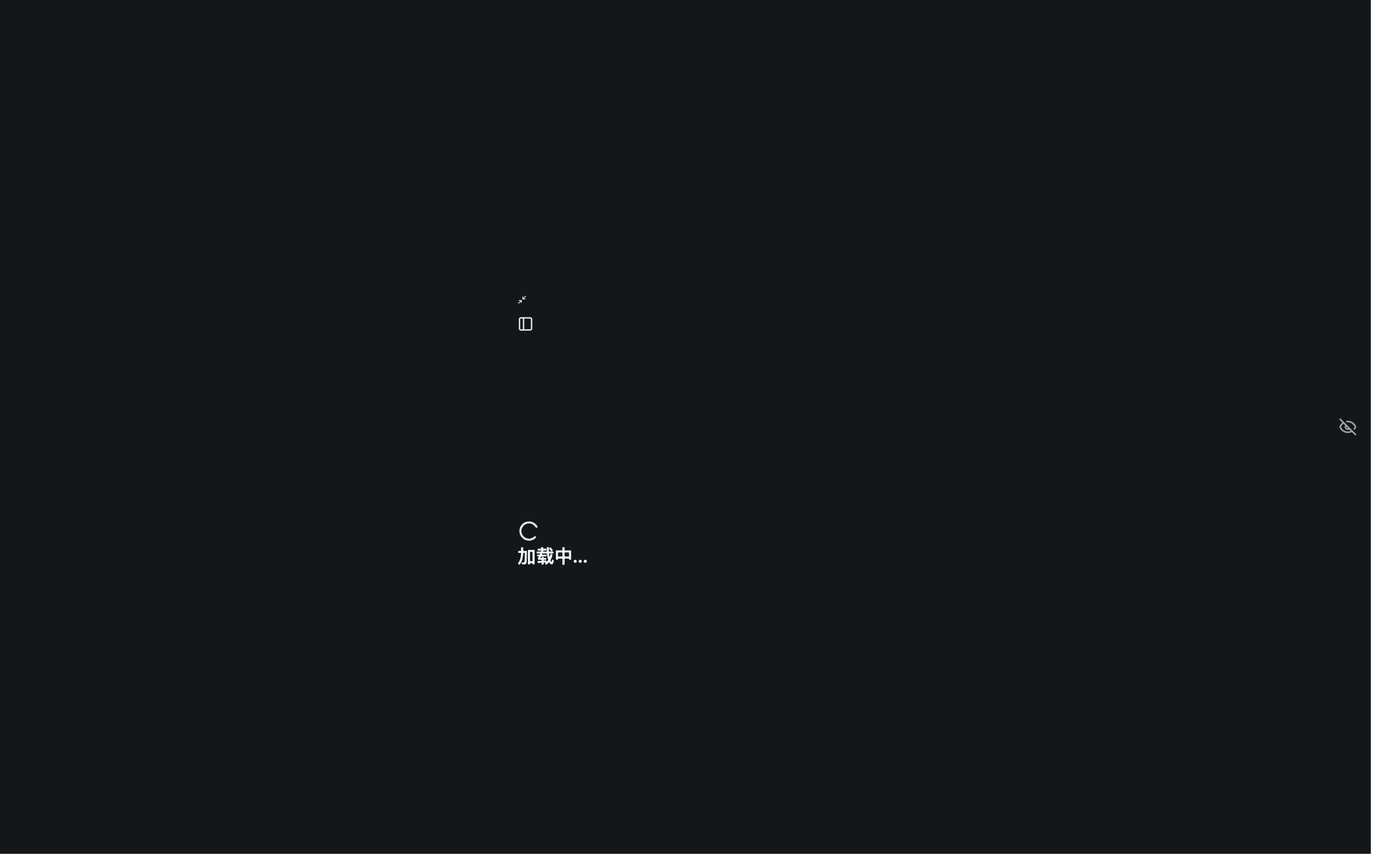
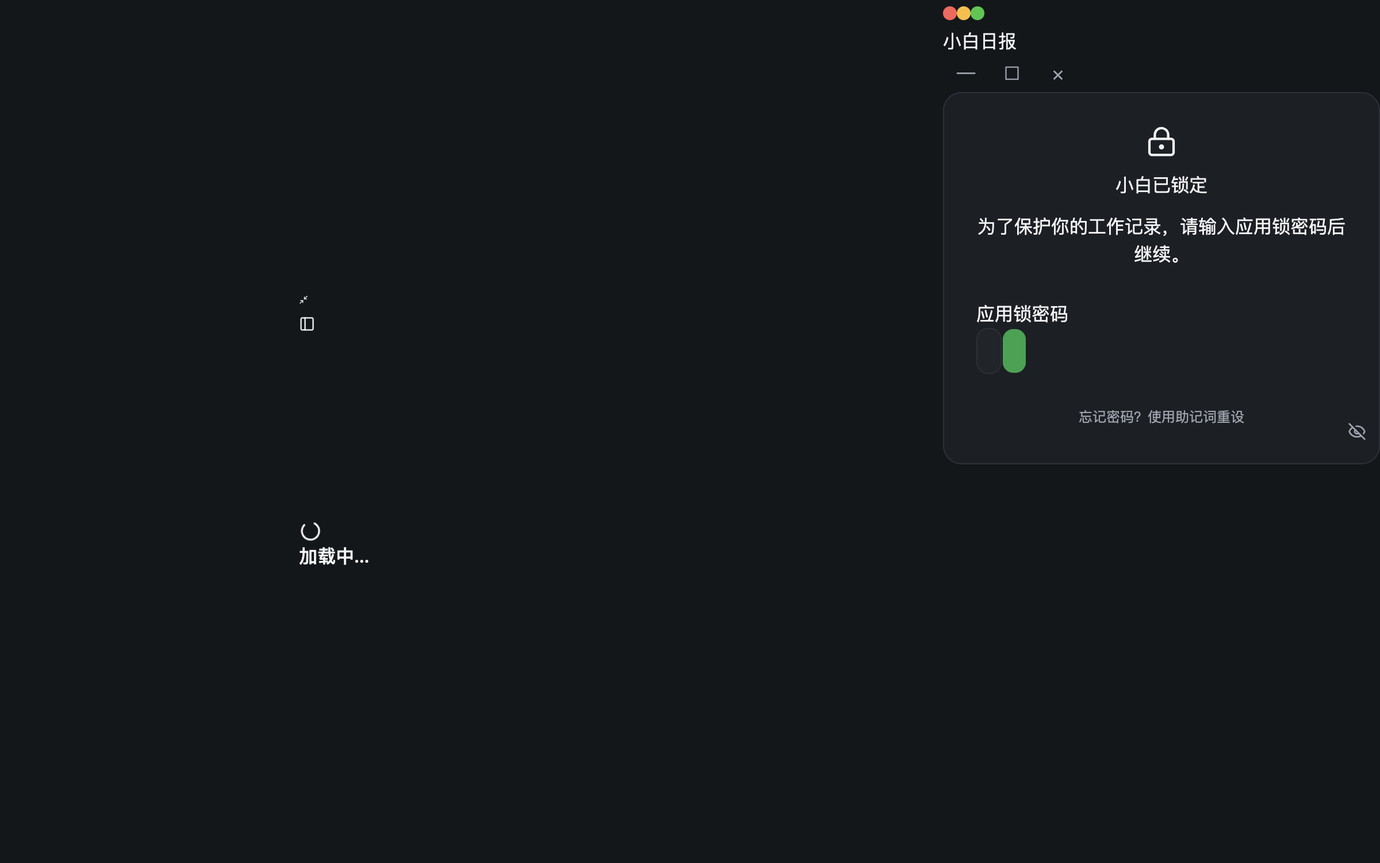
模板辅助函数：:style 外层调用解包（37 个组件），批量挂载不变
接上一轮的结论 —— 全量还原的两个障碍之一，是模板里的 :style="at({...})"：
at 本该是 normalizeStyle 一类编译期辅助函数，但 shared 里同名的是 vue-i18n 的
调度器 nr，调用即抛 at is not a function，style 整块丢失。

这类符号不能靠名字对齐。改成把外层调用去掉：normalizeStyle 对纯对象/数组就是
原样返回，:style="at({...})" 与 :style="{...}" 等价。

实测：
- 37 个组件命中
- 批量挂载 ok 仍为 112，无回归
- 真外壳 + 真 preload 下（RESTORE_SETUP_HOOKS=1 产物）：
  #app 8247B、i18n 已装上（__VUE_I18N_SYMBOL__ 为真，文案是真实翻译）、
  --sidebar-expanded-w: 220px、应用锁面板完整渲染

顺便把首屏布局的三种宿主写法结论记进文档（12px / 820px / 1192px 的取舍），
精确对齐属于外壳适配，不改还原产物。

diff --git a/vue/components/TodoGanttView.vue b/vue/components/TodoGanttView.vue
@@ -1,5 +1,5 @@
 <template>
-<div data-v-8f46fbd1 ref="f" :class="`todo-gantt relative flex h-full min-h-0 flex-1 flex-col overflow-hidden rounded-lg border border-[#e5e7eb] bg-white`" :data-drag-mode="Be"><div :class="`flex h-11 shrink-0 items-center justify-between gap-3 border-b border-[#e5e7eb] px-3`" @click="withDirectives(()=>{},[`stop`])"><div><span>{{ i(`todo.view.ganttTask`) }}</span><span><span v-text="i(`todo.loadedCount`,{count:M.value.length})" /></span></div><div><div><span><span :class="[`size-2 rounded-full border-2`,Se(`created`)]"></span>{{ ` `+toDisplayString(i(`todo.gantt.created`)) }}</span><span>{{ ` `+toDisplayString(i(`todo.gantt.legendRescheduled`)) }}</span><span>{{ ` `+toDisplayString(i(`todo.gantt.legendActual`)) }}</span><span><span><component :is="ts" :size="8" :stroke-width="2.4" /></span>{{ ` `+toDisplayString(i(`todo.gantt.legendComments`)) }}</span><span><span><component :is="an" :size="8" :stroke-width="3.5" /></span>{{ ` `+toDisplayString(i(`todo.gantt.completed`)) }}</span></div><button type="button" :class="[`inline-flex h-7 items-center rounded-md border px-2 text-xs font-medium transition-colors`,u?.value?`border-[#bbf7d0] bg-[#f0fdf4] text-[#16a34a] hover:bg-[#dcfce7]`:`border-[#e5e7eb] bg-white text-[#4b5563] hover:bg-[#f9fafb]`]" :aria-pressed="u?.value" :title="i(`todo.gantt.timePointsHint`)" @click="e=>u.value=!u?.value">{{ i(`todo.view.ganttLegend`) }}</button><div :class="`inline-flex h-7 items-center rounded-md border border-[#e5e7eb] bg-[#f9fafb] p-0.5`" role="radiogroup" :aria-label="i(`todo.gantt.zoom`)"></div><div><button type="button" :class="`flex h-full w-7 items-center justify-center text-[#6b7280] transition-colors hover:bg-[#f9fafb] hover:text-[#111827]`" :aria-label="i(`todo.gantt.prev`)" :title="i(`todo.gantt.prev`)" @click="e=>Ue(-1)"><component :is="Qt" :size="14" :stroke-width="2" /></button><button type="button" :class="`h-full border-x border-[#e5e7eb] px-2.5 text-xs font-medium text-[#4b5563] transition-colors hover:bg-[#f9fafb] hover:text-[#111827]`" @click="He">{{ i(`todo.gantt.today`) }}</button><button type="button" :class="`flex h-full w-7 items-center justify-center text-[#6b7280] transition-colors hover:bg-[#f9fafb] hover:text-[#111827]`" :aria-label="i(`todo.gantt.next`)" :title="i(`todo.gantt.next`)" @click="e=>Ue(1)"><component :is="dn" :size="14" :stroke-width="2" /></button></div></div></div><div ref="p" :class="[`todo-gantt-scroll min-h-0 flex-1 overflow-auto`,{'is-panning':v}]" @scroll="Ke"><div :style="at({width:`${ie?.value}px`})"><div :class="`sticky top-0 z-40 flex border-b border-[#e5e7eb] bg-white`" :style="at({height:`${yfe}px`})"><div :class="`sticky left-0 z-10 flex shrink-0 items-center border-r border-[#e5e7eb] bg-white px-3 text-xs font-semibold text-[#111827]`" :style="at({width:`${qv}px`})">{{ je?.value }}</div><div :class="`relative shrink-0`" :style="at({width:`${re?.value}px`})" @wheel="qe"><span :class="`pointer-events-none absolute inset-y-0 z-10 w-px bg-[#16a34a]`" :style="at({left:`${ae?.value}px`})"></span></div></div><div><div :class="`pointer-events-none absolute inset-y-0`" :style="at({left:`${qv}px`,width:`${re?.value}px`})" aria-hidden="true"><span :class="`absolute inset-y-0 z-[6] w-px bg-[#16a34a]/80`" :style="at({left:`${ae?.value}px`})"></span></div></div><div :class="`sticky left-0 flex h-14 items-center justify-center text-xs text-[#9ca3af]`" :style="at({width:`${counter}px`})"><button type="button" :class="`inline-flex h-8 items-center justify-center rounded-lg border border-[#e5e7eb] bg-white px-4 font-medium text-[#4b5563] transition-colors hover:border-[#bbf7d0] hover:bg-[#f0fdf4] hover:text-[#16a34a] disabled:cursor-not-allowed disabled:opacity-60`" :disabled="event.loadingMore" @click="withDirectives(e=>r(`loadMore`),[`stop`])">{{ event.loadingMore?i(`todo.loadingMore`):i(`todo.loadMore`) }}</button></div></div></div><div ref="m" :class="[`pointer-events-none absolute z-50 w-[264px] rounded-lg border border-[#e5e7eb] bg-white p-3 text-xs shadow-[0_10px_28px_rgba(15,23,42,0.12)]`,x?`opacity-100`:`opacity-0`]" :style="at(ze)" role="tooltip"><div>{{ Ne.value.title }}</div><div><span :class="[`size-1.5 shrink-0 rounded-full`,xe(Ne.value.status)]"></span><span>{{ ye(Ne.value.status) }}</span><span>{{ Ne.value.progress }}</span></div><div><component :is="Ys" :size="13" :stroke-width="2.2" :class="`mt-0.5 shrink-0`" /><span>{{ i(`todo.gantt.invalidRangeHint`) }}</span></div><dl></dl><div><div>{{ i(`todo.gantt.recentActivity`) }}</div></div><div>{{ Ne.value.overdue }}</div><div>{{ i(`todo.gantt.dragHint`) }}</div></div></div>
+<div data-v-8f46fbd1 ref="f" :class="`todo-gantt relative flex h-full min-h-0 flex-1 flex-col overflow-hidden rounded-lg border border-[#e5e7eb] bg-white`" :data-drag-mode="Be"><div :class="`flex h-11 shrink-0 items-center justify-between gap-3 border-b border-[#e5e7eb] px-3`" @click="withDirectives(()=>{},[`stop`])"><div><span>{{ i(`todo.view.ganttTask`) }}</span><span><span v-text="i(`todo.loadedCount`,{count:M.value.length})" /></span></div><div><div><span><span :class="[`size-2 rounded-full border-2`,Se(`created`)]"></span>{{ ` `+toDisplayString(i(`todo.gantt.created`)) }}</span><span>{{ ` `+toDisplayString(i(`todo.gantt.legendRescheduled`)) }}</span><span>{{ ` `+toDisplayString(i(`todo.gantt.legendActual`)) }}</span><span><span><component :is="ts" :size="8" :stroke-width="2.4" /></span>{{ ` `+toDisplayString(i(`todo.gantt.legendComments`)) }}</span><span><span><component :is="an" :size="8" :stroke-width="3.5" /></span>{{ ` `+toDisplayString(i(`todo.gantt.completed`)) }}</span></div><button type="button" :class="[`inline-flex h-7 items-center rounded-md border px-2 text-xs font-medium transition-colors`,u?.value?`border-[#bbf7d0] bg-[#f0fdf4] text-[#16a34a] hover:bg-[#dcfce7]`:`border-[#e5e7eb] bg-white text-[#4b5563] hover:bg-[#f9fafb]`]" :aria-pressed="u?.value" :title="i(`todo.gantt.timePointsHint`)" @click="e=>u.value=!u?.value">{{ i(`todo.view.ganttLegend`) }}</button><div :class="`inline-flex h-7 items-center rounded-md border border-[#e5e7eb] bg-[#f9fafb] p-0.5`" role="radiogroup" :aria-label="i(`todo.gantt.zoom`)"></div><div><button type="button" :class="`flex h-full w-7 items-center justify-center text-[#6b7280] transition-colors hover:bg-[#f9fafb] hover:text-[#111827]`" :aria-label="i(`todo.gantt.prev`)" :title="i(`todo.gantt.prev`)" @click="e=>Ue(-1)"><component :is="Qt" :size="14" :stroke-width="2" /></button><button type="button" :class="`h-full border-x border-[#e5e7eb] px-2.5 text-xs font-medium text-[#4b5563] transition-colors hover:bg-[#f9fafb] hover:text-[#111827]`" @click="He">{{ i(`todo.gantt.today`) }}</button><button type="button" :class="`flex h-full w-7 items-center justify-center text-[#6b7280] transition-colors hover:bg-[#f9fafb] hover:text-[#111827]`" :aria-label="i(`todo.gantt.next`)" :title="i(`todo.gantt.next`)" @click="e=>Ue(1)"><component :is="dn" :size="14" :stroke-width="2" /></button></div></div></div><div ref="p" :class="[`todo-gantt-scroll min-h-0 flex-1 overflow-auto`,{'is-panning':v}]" @scroll="Ke"><div :style="{width:`${ie?.value}px`}"><div :class="`sticky top-0 z-40 flex border-b border-[#e5e7eb] bg-white`" :style="{height:`${yfe}px`}"><div :class="`sticky left-0 z-10 flex shrink-0 items-center border-r border-[#e5e7eb] bg-white px-3 text-xs font-semibold text-[#111827]`" :style="{width:`${qv}px`}">{{ je?.value }}</div><div :class="`relative shrink-0`" :style="{width:`${re?.value}px`}" @wheel="qe"><span :class="`pointer-events-none absolute inset-y-0 z-10 w-px bg-[#16a34a]`" :style="{left:`${ae?.value}px`}"></span></div></div><div><div :class="`pointer-events-none absolute inset-y-0`" :style="{left:`${qv}px`,width:`${re?.value}px`}" aria-hidden="true"><span :class="`absolute inset-y-0 z-[6] w-px bg-[#16a34a]/80`" :style="{left:`${ae?.value}px`}"></span></div></div><div :class="`sticky left-0 flex h-14 items-center justify-center text-xs text-[#9ca3af]`" :style="{width:`${counter}px`}"><button type="button" :class="`inline-flex h-8 items-center justify-center rounded-lg border border-[#e5e7eb] bg-white px-4 font-medium text-[#4b5563] transition-colors hover:border-[#bbf7d0] hover:bg-[#f0fdf4] hover:text-[#16a34a] disabled:cursor-not-allowed disabled:opacity-60`" :disabled="event.loadingMore" @click="withDirectives(e=>r(`loadMore`),[`stop`])">{{ event.loadingMore?i(`todo.loadingMore`):i(`todo.loadMore`) }}</button></div></div></div><div ref="m" :class="[`pointer-events-none absolute z-50 w-[264px] rounded-lg border border-[#e5e7eb] bg-white p-3 text-xs shadow-[0_10px_28px_rgba(15,23,42,0.12)]`,x?`opacity-100`:`opacity-0`]" :style="ze" role="tooltip"><div>{{ Ne.value.title }}</div><div><span :class="[`size-1.5 shrink-0 rounded-full`,xe(Ne.value.status)]"></span><span>{{ ye(Ne.value.status) }}</span><span>{{ Ne.value.progress }}</span></div><div><component :is="Ys" :size="13" :stroke-width="2.2" :class="`mt-0.5 shrink-0`" /><span>{{ i(`todo.gantt.invalidRangeHint`) }}</span></div><dl></dl><div><div>{{ i(`todo.gantt.recentActivity`) }}</div></div><div>{{ Ne.value.overdue }}</div><div>{{ i(`todo.gantt.dragHint`) }}</div></div></div>
 </template>
 
 <script setup>

diff --git a/vue/components/TodoCalendarView.vue b/vue/components/TodoCalendarView.vue
@@ -1,5 +1,5 @@
 <template>
-<div ref="y" :class="`todo-calendar relative flex h-full min-h-0 flex-1 flex-col overflow-hidden rounded-lg border border-[#e5e7eb] bg-white`"><div :class="`flex h-11 shrink-0 items-center justify-between gap-3 border-b border-[#e5e7eb] px-3`" @click="withDirectives(()=>{},[`stop`])"><div><span>{{ f?.value }}</span><component :is="zn" :size="14" :class="`shrink-0 animate-spin text-[#9ca3af] motion-reduce:animate-none`" aria-hidden="true" /><span :class="`truncate text-xs text-[#ef4444]`" :title="event.error">{{ event.error }}</span></div><div><span>{{ r(`todo.calendar.createHint`) }}</span><div><button type="button" :class="`flex h-full w-7 items-center justify-center text-[#6b7280] transition-colors hover:bg-[#f9fafb] hover:text-[#111827]`" :aria-label="r(`todo.gantt.prev`)" :title="r(`todo.gantt.prev`)" @click="e=>m(-1)"><component :is="Qt" :size="14" :stroke-width="2" /></button><button type="button" :class="[`h-full border-x border-[#e5e7eb] px-2.5 text-xs font-medium transition-colors hover:bg-[#f9fafb] hover:text-[#111827]`,p?.value?`text-[#9ca3af]`:`text-[#4b5563]`]" @click="h">{{ r(`todo.gantt.today`) }}</button><button type="button" :class="`flex h-full w-7 items-center justify-center text-[#6b7280] transition-colors hover:bg-[#f9fafb] hover:text-[#111827]`" :aria-label="r(`todo.gantt.next`)" :title="r(`todo.gantt.next`)" @click="e=>m(1)"><component :is="dn" :size="14" :stroke-width="2" /></button></div><div :class="`inline-flex h-7 items-center rounded-md border border-[#e5e7eb] bg-[#f9fafb] p-0.5`" role="radiogroup" :aria-label="r(`todo.calendar.modeLabel`)"></div></div></div><component :is="cpe" :tasks="event.tasks" :start-day="l.value.startDay" :anchor-day="c?.value" :today-day="s?.value" :now="o?.value" :selected-task-id="event.selectedTaskId" :can-manage="event.canManage" @select="e=>n(`select`,e)" @reschedule="e=>n(`reschedule`,e)" @create="e=>n(`create`,e)" @openweek="_" @contextmenu="x" /><div data-calendar-context-menu="" role="menu" :class="`absolute z-50 flex flex-col rounded-lg border border-[#e5e7eb] bg-white p-1 shadow-[0_10px_28px_rgba(15,23,42,0.14)]`" :style="at({left:`${b.left}px`,top:`${b.top}px`,width:`${dy}px`})" @click="withDirectives(()=>{},[`stop`])" @contextmenu="withDirectives(()=>{},[`prevent`,`stop`])"><button type="button" role="menuitem" :class="`flex h-8 items-center gap-2 rounded-md px-2.5 text-left text-xs font-medium text-[#111827] transition-colors hover:bg-[#f3f4f6]`" @click="C"><component :is="Na" :size="14" :stroke-width="1.8" :class="`shrink-0 text-[#6b7280]`" />{{ ` `+toDisplayString(r(`todo.calendar.newEvent`)) }}</button></div></div>
+<div ref="y" :class="`todo-calendar relative flex h-full min-h-0 flex-1 flex-col overflow-hidden rounded-lg border border-[#e5e7eb] bg-white`"><div :class="`flex h-11 shrink-0 items-center justify-between gap-3 border-b border-[#e5e7eb] px-3`" @click="withDirectives(()=>{},[`stop`])"><div><span>{{ f?.value }}</span><component :is="zn" :size="14" :class="`shrink-0 animate-spin text-[#9ca3af] motion-reduce:animate-none`" aria-hidden="true" /><span :class="`truncate text-xs text-[#ef4444]`" :title="event.error">{{ event.error }}</span></div><div><span>{{ r(`todo.calendar.createHint`) }}</span><div><button type="button" :class="`flex h-full w-7 items-center justify-center text-[#6b7280] transition-colors hover:bg-[#f9fafb] hover:text-[#111827]`" :aria-label="r(`todo.gantt.prev`)" :title="r(`todo.gantt.prev`)" @click="e=>m(-1)"><component :is="Qt" :size="14" :stroke-width="2" /></button><button type="button" :class="[`h-full border-x border-[#e5e7eb] px-2.5 text-xs font-medium transition-colors hover:bg-[#f9fafb] hover:text-[#111827]`,p?.value?`text-[#9ca3af]`:`text-[#4b5563]`]" @click="h">{{ r(`todo.gantt.today`) }}</button><button type="button" :class="`flex h-full w-7 items-center justify-center text-[#6b7280] transition-colors hover:bg-[#f9fafb] hover:text-[#111827]`" :aria-label="r(`todo.gantt.next`)" :title="r(`todo.gantt.next`)" @click="e=>m(1)"><component :is="dn" :size="14" :stroke-width="2" /></button></div><div :class="`inline-flex h-7 items-center rounded-md border border-[#e5e7eb] bg-[#f9fafb] p-0.5`" role="radiogroup" :aria-label="r(`todo.calendar.modeLabel`)"></div></div></div><component :is="cpe" :tasks="event.tasks" :start-day="l.value.startDay" :anchor-day="c?.value" :today-day="s?.value" :now="o?.value" :selected-task-id="event.selectedTaskId" :can-manage="event.canManage" @select="e=>n(`select`,e)" @reschedule="e=>n(`reschedule`,e)" @create="e=>n(`create`,e)" @openweek="_" @contextmenu="x" /><div data-calendar-context-menu="" role="menu" :class="`absolute z-50 flex flex-col rounded-lg border border-[#e5e7eb] bg-white p-1 shadow-[0_10px_28px_rgba(15,23,42,0.14)]`" :style="{left:`${b.left}px`,top:`${b.top}px`,width:`${dy}px`}" @click="withDirectives(()=>{},[`stop`])" @contextmenu="withDirectives(()=>{},[`prevent`,`stop`])"><button type="button" role="menuitem" :class="`flex h-8 items-center gap-2 rounded-md px-2.5 text-left text-xs font-medium text-[#111827] transition-colors hover:bg-[#f3f4f6]`" @click="C"><component :is="Na" :size="14" :stroke-width="1.8" :class="`shrink-0 text-[#6b7280]`" />{{ ` `+toDisplayString(r(`todo.calendar.newEvent`)) }}</button></div></div>
 </template>
 
 <script setup>

diff --git a/vue/components/ProfilePage.vue b/vue/components/ProfilePage.vue
@@ -1,5 +1,5 @@
 <template>
-<div data-v-e874d044><div :class="`mt-6 mb-4 relative cursor-pointer group`" :title="r(`profile.changeAvatar`)" @click="Le"><div><img :src="s.avatarUrl" alt="avatar" :class="`w-full h-full object-cover`" /></div><div><component :is="zn" :size="20" :class="`text-white animate-spin`" /></div><span><component :is="v" :size="12" :stroke-width="1.75" /></span></div><h2>{{ s?.nickname||r(`profile.user`) }}</h2><p>{{ s?.jobTitle||s?.email }}</p><div></div><div></div><div><section><div><div><component :is="Ft" :size="14" :stroke-width="1.5" :class="`text-[#999]`" /><h3>{{ r(`profile.insights.footprint`) }}</h3></div><span><span v-text="r(`profile.insights.recentWeeks`,{weeks:SW})" /></span></div><div :class="`profile-heat-grid`" :style="at({gridTemplateColumns:`repeat(${ge.value.columns}, minmax(0, 1fr))`})"></div><div><p>{{ toDisplayString(r(`profile.insights.summaryLine`,{records:_e(he.value.totalRecords),streak:_e(he.value.longestStreak)}))+` ` }}{{ ` · `+toDisplayString(r(`profile.insights.firstRecord`,{date:he.value.firstDate})) }}</p><p><span v-text="r(`profile.insights.reportsLine`,{daily:_e(he.value.reports.daily),weekly:_e(he.value.reports.weekly),monthly:_e(he.value.reports.monthly)})" /></p><p>{{ r(`profile.insights.timeSavedHint`,oW) }}</p></div></section><section><div><div><component :is="ao" :size="14" :stroke-width="1.5" :class="`text-[#999]`" /><h3>{{ r(`profile.account`) }}</h3></div><component :is="P" size="sm" variant="ghost" :class="`h-7 border-0 px-0 text-xs text-primary`" @click="Me" /></div><div><p>{{ toDisplayString(oe?.value)+` ` }}<span>{{ r(`profile.active`) }}</span></p><p>{{ le?.value }}</p></div><div><div><component :is="sc" :size="14" :stroke-width="1.5" :class="`text-[#999]`" /><span>{{ Fe(counter) }}</span><span>{{ r(`profile.creditsUnit`) }}</span></div><div><component :is="P" size="sm" variant="ghost" :class="`h-7 border-0 px-0 text-xs text-primary`" @click="Pe" /><component :is="P" size="sm" variant="ghost" :class="`h-7 border-0 px-0 text-xs text-primary`" @click="Ne" /></div></div></section><component :is="Ip" variant="profile" :user-id="s?.userId??null" :refresh-key="o.refreshKey" @claimed="e=>{L(),u();}" /></div><component :is="ui" :open="y" @update:open="e=>y=e" /><component :is="ui" :open="E" @update:open="e=>E=e" /><component :is="gM" :open="w" @update:open="e=>w=e" @balancechanged="L" /><component :is="_Ge" :open="T" @update:open="e=>T=e" /></div>
+<div data-v-e874d044><div :class="`mt-6 mb-4 relative cursor-pointer group`" :title="r(`profile.changeAvatar`)" @click="Le"><div><img :src="s.avatarUrl" alt="avatar" :class="`w-full h-full object-cover`" /></div><div><component :is="zn" :size="20" :class="`text-white animate-spin`" /></div><span><component :is="v" :size="12" :stroke-width="1.75" /></span></div><h2>{{ s?.nickname||r(`profile.user`) }}</h2><p>{{ s?.jobTitle||s?.email }}</p><div></div><div></div><div><section><div><div><component :is="Ft" :size="14" :stroke-width="1.5" :class="`text-[#999]`" /><h3>{{ r(`profile.insights.footprint`) }}</h3></div><span><span v-text="r(`profile.insights.recentWeeks`,{weeks:SW})" /></span></div><div :class="`profile-heat-grid`" :style="{gridTemplateColumns:`repeat(${ge.value.columns}, minmax(0, 1fr))`}"></div><div><p>{{ toDisplayString(r(`profile.insights.summaryLine`,{records:_e(he.value.totalRecords),streak:_e(he.value.longestStreak)}))+` ` }}{{ ` · `+toDisplayString(r(`profile.insights.firstRecord`,{date:he.value.firstDate})) }}</p><p><span v-text="r(`profile.insights.reportsLine`,{daily:_e(he.value.reports.daily),weekly:_e(he.value.reports.weekly),monthly:_e(he.value.reports.monthly)})" /></p><p>{{ r(`profile.insights.timeSavedHint`,oW) }}</p></div></section><section><div><div><component :is="ao" :size="14" :stroke-width="1.5" :class="`text-[#999]`" /><h3>{{ r(`profile.account`) }}</h3></div><component :is="P" size="sm" variant="ghost" :class="`h-7 border-0 px-0 text-xs text-primary`" @click="Me" /></div><div><p>{{ toDisplayString(oe?.value)+` ` }}<span>{{ r(`profile.active`) }}</span></p><p>{{ le?.value }}</p></div><div><div><component :is="sc" :size="14" :stroke-width="1.5" :class="`text-[#999]`" /><span>{{ Fe(counter) }}</span><span>{{ r(`profile.creditsUnit`) }}</span></div><div><component :is="P" size="sm" variant="ghost" :class="`h-7 border-0 px-0 text-xs text-primary`" @click="Pe" /><component :is="P" size="sm" variant="ghost" :class="`h-7 border-0 px-0 text-xs text-primary`" @click="Ne" /></div></div></section><component :is="Ip" variant="profile" :user-id="s?.userId??null" :refresh-key="o.refreshKey" @claimed="e=>{L(),u();}" /></div><component :is="ui" :open="y" @update:open="e=>y=e" /><component :is="ui" :open="E" @update:open="e=>E=e" /><component :is="gM" :open="w" @update:open="e=>w=e" @balancechanged="L" /><component :is="_Ge" :open="T" @update:open="e=>T=e" /></div>
 </template>
 
 <script setup>

diff --git a/vue/components/HeatMapPage.vue b/vue/components/HeatMapPage.vue
@@ -1,5 +1,5 @@
 <template>
-<div data-v-e29f1834 ref="r" :class="[`generate-report-theme-scope heat-map-theme-scope heat-map-page-scroll flex h-full min-h-0 flex-col gap-5 overflow-y-auto p-6 px-7`,{'is-scrolling':u?.value}]" @scroll="f"><div><div><div><component :is="KL" type="single" variant="outline" size="sm" :spacing="1" :model-value="E?.value" :class="`h-8 rounded-md border border-black/5 bg-black/[0.03] p-0.5`" @update:modelvalue="ne" /><component :is="KL" type="single" variant="outline" size="sm" :spacing="1" :model-value="D?.value" :class="`h-8 rounded-md border border-black/5 bg-black/[0.03] p-0.5`" @update:modelvalue="te" /></div><button :class="`flex shrink-0 items-center gap-1 whitespace-nowrap h-7 px-2.5 rounded-md bg-black/[0.03] hover:bg-black/[0.06] text-xs text-[#666] transition-colors cursor-pointer disabled:opacity-50 disabled:cursor-not-allowed`" :disabled="De?.value||Oe?.value" @click="ut"><component :is="zn" :size="13" :class="`animate-spin`" />{{ ` `+toDisplayString(De?.value?i(`heatMap.generating`):i(`heatMap.generateHeatmap`)) }}</button></div><div><p :class="`min-w-0 flex-1 truncate text-xs text-[#999]`" :title="ie?.value">{{ ie?.value }}</p><div><component :is="Ht" :start="O?.value" :end="k?.value" @change="se" /><div :id="Rt.slice(1)" :class="`contents`"></div></div></div></div><div ref="xe" :class="`flex flex-col gap-5`"><component :is="O8" :refresh-key="event.refreshKey" @navigate="e=>s(`navigate`,e)" /></div><component :is="FSt" :summaries="ue?.value" @navigate="N" /><component :is="TCt" :year="re?.value" :refresh-key="event.refreshKey" :summaries="le?.value" :longest-streak-days="ot?.value" @generatebadge="e=>ke.value={...e,year:re?.value}" /><component :is="b_" :target="Ye.target.value" @close="Ye.close" /><component :is="a5" :badge="ke?.value" :year="ke.value.year" @close="e=>ke.value=null" /><div :class="`fixed z-50 w-[220px] rounded-lg border border-black/10 bg-white px-3 py-2 text-xs shadow-lg pointer-events-none`" :style="at({left:`${me.value.x}px`,top:`${me.value.y}px`})"><div>{{ me.value.title }}</div><div>{{ me.value.range }}</div><div><div><div>{{ me.value.totalRecords }}</div><div>{{ i(`heatMap.recordCount`) }}</div></div><div><div>{{ me.value.focusLabel }}</div><div>{{ i(`heatMap.focusHours`) }}</div></div><div><div>{{ me.value.activeDays }}</div><div>{{ i(`heatMap.activeDays`) }}</div></div></div></div></div>
+<div data-v-e29f1834 ref="r" :class="[`generate-report-theme-scope heat-map-theme-scope heat-map-page-scroll flex h-full min-h-0 flex-col gap-5 overflow-y-auto p-6 px-7`,{'is-scrolling':u?.value}]" @scroll="f"><div><div><div><component :is="KL" type="single" variant="outline" size="sm" :spacing="1" :model-value="E?.value" :class="`h-8 rounded-md border border-black/5 bg-black/[0.03] p-0.5`" @update:modelvalue="ne" /><component :is="KL" type="single" variant="outline" size="sm" :spacing="1" :model-value="D?.value" :class="`h-8 rounded-md border border-black/5 bg-black/[0.03] p-0.5`" @update:modelvalue="te" /></div><button :class="`flex shrink-0 items-center gap-1 whitespace-nowrap h-7 px-2.5 rounded-md bg-black/[0.03] hover:bg-black/[0.06] text-xs text-[#666] transition-colors cursor-pointer disabled:opacity-50 disabled:cursor-not-allowed`" :disabled="De?.value||Oe?.value" @click="ut"><component :is="zn" :size="13" :class="`animate-spin`" />{{ ` `+toDisplayString(De?.value?i(`heatMap.generating`):i(`heatMap.generateHeatmap`)) }}</button></div><div><p :class="`min-w-0 flex-1 truncate text-xs text-[#999]`" :title="ie?.value">{{ ie?.value }}</p><div><component :is="Ht" :start="O?.value" :end="k?.value" @change="se" /><div :id="Rt.slice(1)" :class="`contents`"></div></div></div></div><div ref="xe" :class="`flex flex-col gap-5`"><component :is="O8" :refresh-key="event.refreshKey" @navigate="e=>s(`navigate`,e)" /></div><component :is="FSt" :summaries="ue?.value" @navigate="N" /><component :is="TCt" :year="re?.value" :refresh-key="event.refreshKey" :summaries="le?.value" :longest-streak-days="ot?.value" @generatebadge="e=>ke.value={...e,year:re?.value}" /><component :is="b_" :target="Ye.target.value" @close="Ye.close" /><component :is="a5" :badge="ke?.value" :year="ke.value.year" @close="e=>ke.value=null" /><div :class="`fixed z-50 w-[220px] rounded-lg border border-black/10 bg-white px-3 py-2 text-xs shadow-lg pointer-events-none`" :style="{left:`${me.value.x}px`,top:`${me.value.y}px`}"><div>{{ me.value.title }}</div><div>{{ me.value.range }}</div><div><div><div>{{ me.value.totalRecords }}</div><div>{{ i(`heatMap.recordCount`) }}</div></div><div><div>{{ me.value.focusLabel }}</div><div>{{ i(`heatMap.focusHours`) }}</div></div><div><div>{{ me.value.activeDays }}</div><div>{{ i(`heatMap.activeDays`) }}</div></div></div></div></div>
 </template>
 
 <script setup>

diff --git a/vue/components/App.vue b/vue/components/App.vue
@@ -1,5 +1,5 @@
 <template>
-<div data-v-84811ec9 :class="[`app-layout`,{'app-layout--win':n===`win32`,'app-layout--maximized':n===`win32`&&r}]" :style="at({'--sidebar-expanded-w':`${p}px`,'--sidebar-w':a||!se||!te||D?`0px`:`${p}px`})"><component :is="pie" :collapsed="a" @update:collapsed="e=>a=e" :active-nav="o" @update:activenav="vn" @showwechatqrcode="Ke" @openupdate="tt" @contactpaneltargetchange="e=>f.value=e" /><main><div :class="[`main-content`,{'main-content--win':n===`win32`,'main-content--toolbox-workspace':o===`toolbox`&&m,'main-content--toolbox-left-controls':o===`toolbox`&&m&&(!se||D||a),'main-content--xiaohei-bot':o===`xiaohei-bot`,'main-content--xiaohei-bot-left-controls':o===`xiaohei-bot`&&a}]"><div :class="`content-header`" @dblclick="on"><div><div :class="`traffic-lights`" @mouseenter="e=>i=true" @mouseleave="e=>i=false"><button :class="[`traffic-light traffic-light-close`,{'show-icon':i}]" @click="ln"></button><button :class="[`traffic-light traffic-light-minimize`,{'show-icon':i}]" @click="sn"></button><button :class="[`traffic-light traffic-light-maximize`,{'show-icon':i}]" @click="cn"><component :is="Pr" :size="8" /></button></div><div><button :class="`collapsed-action-btn`" @click="e=>a=false" :title="N(`common.expandMenu`)"><component :is="os" :size="14" /></button></div><span>{{ $?.value }}</span></div><div><button :class="`win-btn`" @click="sn" :title="N(`app.minimize`)"></button><button :class="`win-btn`" @click="cn" :title="r?N(`app.restore`):N(`app.maximize`)"><svg></svg></button><button :class="`win-btn win-btn-close`" @click="ln" :title="N(`app.close`)"></button></div></div><div><div><component :is="zn" :size="20" :class="`animate-spin`" /><span>{{ N(`common.loading`) }}</span></div></div></div></main><div></div><component :is="IQt" :open="ke" @update:open="e=>$e(ke)?ke.value=e:null" @opentodo="Sn" @openreportcc="xn" @openupdate="tt" @opensharecard="e=>iW({kind:`month`,month:e})" /></div><component :is="ZQt" /><component :is="Bie" :open="Ut" @update:open="e=>Ut=e" :snapshot="Wt" @generate="gn" @exit="hn" @suppresschange="_n" /><component :is="jZt" /><component :is="tQt" /><component :is="R$t" :state="We" @statechanged="e=>We=e" />
+<div data-v-84811ec9 :class="[`app-layout`,{'app-layout--win':n===`win32`,'app-layout--maximized':n===`win32`&&r}]" :style="{'--sidebar-expanded-w':`${p}px`,'--sidebar-w':a||!se||!te||D?`0px`:`${p}px`}"><component :is="pie" :collapsed="a" @update:collapsed="e=>a=e" :active-nav="o" @update:activenav="vn" @showwechatqrcode="Ke" @openupdate="tt" @contactpaneltargetchange="e=>f.value=e" /><main><div :class="[`main-content`,{'main-content--win':n===`win32`,'main-content--toolbox-workspace':o===`toolbox`&&m,'main-content--toolbox-left-controls':o===`toolbox`&&m&&(!se||D||a),'main-content--xiaohei-bot':o===`xiaohei-bot`,'main-content--xiaohei-bot-left-controls':o===`xiaohei-bot`&&a}]"><div :class="`content-header`" @dblclick="on"><div><div :class="`traffic-lights`" @mouseenter="e=>i=true" @mouseleave="e=>i=false"><button :class="[`traffic-light traffic-light-close`,{'show-icon':i}]" @click="ln"></button><button :class="[`traffic-light traffic-light-minimize`,{'show-icon':i}]" @click="sn"></button><button :class="[`traffic-light traffic-light-maximize`,{'show-icon':i}]" @click="cn"><component :is="Pr" :size="8" /></button></div><div><button :class="`collapsed-action-btn`" @click="e=>a=false" :title="N(`common.expandMenu`)"><component :is="os" :size="14" /></button></div><span>{{ $?.value }}</span></div><div><button :class="`win-btn`" @click="sn" :title="N(`app.minimize`)"></button><button :class="`win-btn`" @click="cn" :title="r?N(`app.restore`):N(`app.maximize`)"><svg></svg></button><button :class="`win-btn win-btn-close`" @click="ln" :title="N(`app.close`)"></button></div></div><div><div><component :is="zn" :size="20" :class="`animate-spin`" /><span>{{ N(`common.loading`) }}</span></div></div></div></main><div></div><component :is="IQt" :open="ke" @update:open="e=>$e(ke)?ke.value=e:null" @opentodo="Sn" @openreportcc="xn" @openupdate="tt" @opensharecard="e=>iW({kind:`month`,month:e})" /></div><component :is="ZQt" /><component :is="Bie" :open="Ut" @update:open="e=>Ut=e" :snapshot="Wt" @generate="gn" @exit="hn" @suppresschange="_n" /><component :is="jZt" /><component :is="tQt" /><component :is="R$t" :state="We" @statechanged="e=>We=e" />
 </template>
 
 <script setup>

diff --git a/vue/components/LeaderboardHero.vue b/vue/components/LeaderboardHero.vue
@@ -1,5 +1,5 @@
 <template>
-<section data-v-9347e030><div><p><span :class="[`lb-hero-dot`,{'is-live':text.isLive}]"></span><span>{{ text.isLive?i(`leaderboard.live`):i(`leaderboard.settled`) }}</span><span>{{ `· `+toDisplayString(text.statusText) }}</span></p><div><p><span>{{ c.value[0] }}</span><span>{{ text.me.rank }}</span><span>{{ c.value[1] }}</span></p><span>{{ text.headline }}</span></div><div><div><span>{{ text.me.recordCount }}</span><span>{{ i(`leaderboard.metric.records`) }}</span></div><div><span>{{ i(`leaderboard.changeSame`) }}</span><span><span v-text="i(`leaderboard.metric.change`,{previous:text.previousLabel})" /></span></div><div><span>{{ toDisplayString(a?.value)+`%` }}</span><span>{{ i(`leaderboard.metric.percent`) }}</span></div><div><span><span v-text="i(`leaderboard.streakDays`,{days:s?.value})" /></span><span>{{ i(`leaderboard.metric.streak`) }}</span></div></div><div><div><div :class="`lb-hero-progress-fill`" :style="at({width:`${Math.round((text.progressRatio??0)*100)}%`})"></div></div><span>{{ text.progressText }}</span></div></div><div><div><button type="button" :class="`lb-hero-friend`" @click="e=>r(`addFriend`)"><component :is="tc" :size="13" />{{ ` `+toDisplayString(i(`leaderboard.addFriend`))+` ` }}<span>{{ (text.friendRequestCount??0)>99?`99+`:text.friendRequestCount }}</span></button><button type="button" :class="`lb-hero-share`" :disabled="!text.me" @click="e=>r(`share`)"><component :is="Ds" :size="13" />{{ ` `+toDisplayString(i(`leaderboard.share`)) }}</button></div></div></section>
+<section data-v-9347e030><div><p><span :class="[`lb-hero-dot`,{'is-live':text.isLive}]"></span><span>{{ text.isLive?i(`leaderboard.live`):i(`leaderboard.settled`) }}</span><span>{{ `· `+toDisplayString(text.statusText) }}</span></p><div><p><span>{{ c.value[0] }}</span><span>{{ text.me.rank }}</span><span>{{ c.value[1] }}</span></p><span>{{ text.headline }}</span></div><div><div><span>{{ text.me.recordCount }}</span><span>{{ i(`leaderboard.metric.records`) }}</span></div><div><span>{{ i(`leaderboard.changeSame`) }}</span><span><span v-text="i(`leaderboard.metric.change`,{previous:text.previousLabel})" /></span></div><div><span>{{ toDisplayString(a?.value)+`%` }}</span><span>{{ i(`leaderboard.metric.percent`) }}</span></div><div><span><span v-text="i(`leaderboard.streakDays`,{days:s?.value})" /></span><span>{{ i(`leaderboard.metric.streak`) }}</span></div></div><div><div><div :class="`lb-hero-progress-fill`" :style="{width:`${Math.round((text.progressRatio??0)*100)}%`}"></div></div><span>{{ text.progressText }}</span></div></div><div><div><button type="button" :class="`lb-hero-friend`" @click="e=>r(`addFriend`)"><component :is="tc" :size="13" />{{ ` `+toDisplayString(i(`leaderboard.addFriend`))+` ` }}<span>{{ (text.friendRequestCount??0)>99?`99+`:text.friendRequestCount }}</span></button><button type="button" :class="`lb-hero-share`" :disabled="!text.me" @click="e=>r(`share`)"><component :is="Ds" :size="13" />{{ ` `+toDisplayString(i(`leaderboard.share`)) }}</button></div></div></section>
 </template>
 
 <script setup>

diff --git a/vue/components/ToolboxCatalog.vue b/vue/components/ToolboxCatalog.vue
@@ -1,5 +1,5 @@
 <template>
-<li><button type="button" :class="`group grid min-h-[62px] w-full grid-cols-[38px_minmax(180px,1fr)_minmax(164px,236px)_24px] items-center gap-3 rounded-[10px] px-2.5 py-2 text-left transition-colors hover:bg-muted/70 focus-visible:outline-2 focus-visible:-outline-offset-2 focus-visible:outline-primary/40 active:bg-muted`" @click="t=>g(e)"><span :class="`relative inline-flex size-[34px] items-center justify-center rounded-[10px]`" :style="at(D(e))"><component :is="Be(wr[e.icon]||cc)" :size="20" :stroke-width="1.8" /><img :class="`absolute inset-0 size-full rounded-[inherit] bg-white object-contain p-[3px]`" :src="e.logoUrl" alt="" @error="w" /><span></span></span><span><span><strong>{{ e.name }}</strong><span>new</span><span>{{ T(e) }}</span><span :class="[`shrink-0 rounded-full px-1.5 py-0.5 text-[9px] font-semibold`,e.status===`testing`?`bg-primary/10 text-primary`:`bg-muted text-muted-foreground`]">{{ e.status===`testing`?o(`toolboxNative.testing`):o(`toolboxNative.comingSoon`) }}</span></span><span>{{ e.description }}</span></span><span><span><em>{{ C(o(`toolboxNative.generate`)) }}</em><b>{{ undefined }}<small>{{ S?.value }}</small></b><small>{{ C(o(`toolboxNative.per10kCharactersAndUp`)) }}</small></span></span><component :is="pa" :class="`text-muted-foreground transition-transform group-hover:translate-x-0.5 group-hover:text-primary`" :size="15" aria-hidden="true" /></button></li>
+<li><button type="button" :class="`group grid min-h-[62px] w-full grid-cols-[38px_minmax(180px,1fr)_minmax(164px,236px)_24px] items-center gap-3 rounded-[10px] px-2.5 py-2 text-left transition-colors hover:bg-muted/70 focus-visible:outline-2 focus-visible:-outline-offset-2 focus-visible:outline-primary/40 active:bg-muted`" @click="t=>g(e)"><span :class="`relative inline-flex size-[34px] items-center justify-center rounded-[10px]`" :style="D(e)"><component :is="Be(wr[e.icon]||cc)" :size="20" :stroke-width="1.8" /><img :class="`absolute inset-0 size-full rounded-[inherit] bg-white object-contain p-[3px]`" :src="e.logoUrl" alt="" @error="w" /><span></span></span><span><span><strong>{{ e.name }}</strong><span>new</span><span>{{ T(e) }}</span><span :class="[`shrink-0 rounded-full px-1.5 py-0.5 text-[9px] font-semibold`,e.status===`testing`?`bg-primary/10 text-primary`:`bg-muted text-muted-foreground`]">{{ e.status===`testing`?o(`toolboxNative.testing`):o(`toolboxNative.comingSoon`) }}</span></span><span>{{ e.description }}</span></span><span><span><em>{{ C(o(`toolboxNative.generate`)) }}</em><b>{{ undefined }}<small>{{ S?.value }}</small></b><small>{{ C(o(`toolboxNative.per10kCharactersAndUp`)) }}</small></span></span><component :is="pa" :class="`text-muted-foreground transition-transform group-hover:translate-x-0.5 group-hover:text-primary`" :size="15" aria-hidden="true" /></button></li>
 </template>
 
 <script setup>

diff --git a/vue/components/TodoCalendarWeek.vue b/vue/components/TodoCalendarWeek.vue
@@ -1,5 +1,5 @@
 <template>
-<div data-v-a24468f0 :class="`todo-calendar-week flex min-h-0 flex-1 flex-col`" :data-drag-mode="u?.active?u.mode:undefined" @clickcapture="le"><div :class="`flex shrink-0 border-b border-[#edf0f3]`" :style="at({paddingRight:`${counter}px`})"><div :class="`shrink-0`" :style="at({width:`${cy}px`})"></div><div></div></div><div :class="`flex shrink-0 border-b border-[#edf0f3]`" :style="at({paddingRight:`${counter}px`})"><div :class="`flex shrink-0 flex-col items-end gap-0.5 px-1.5 py-1 text-[11px] text-[#9ca3af]`" :style="at({width:`${cy}px`})"><span>{{ i(`todo.calendar.multiDay`) }}</span><button type="button" :class="`rounded px-1 font-medium text-[#6b7280] transition-colors hover:bg-[#f3f4f6] hover:text-[#111827]`" @click="withDirectives(e=>l=!l,[`stop`])"><span v-text="l?i(`todo.calendar.collapse`):`+${y?.value}`" /></button></div><div :class="`relative min-w-0 flex-1`" :style="at({height:`${_?.value*ly+8}px`})" @contextmenu="me"></div></div><div ref="o" :class="`week-scroll relative min-h-0 flex-1 overflow-y-auto`"><div :class="`relative flex`" :style="at({height:`1056px`})"><div :class="`relative shrink-0`" :style="at({width:`${cy}px`})" aria-hidden="true"></div><div ref="s" :class="`grid min-w-0 flex-1 grid-cols-7`"></div></div></div></div>
+<div data-v-a24468f0 :class="`todo-calendar-week flex min-h-0 flex-1 flex-col`" :data-drag-mode="u?.active?u.mode:undefined" @clickcapture="le"><div :class="`flex shrink-0 border-b border-[#edf0f3]`" :style="{paddingRight:`${counter}px`}"><div :class="`shrink-0`" :style="{width:`${cy}px`}"></div><div></div></div><div :class="`flex shrink-0 border-b border-[#edf0f3]`" :style="{paddingRight:`${counter}px`}"><div :class="`flex shrink-0 flex-col items-end gap-0.5 px-1.5 py-1 text-[11px] text-[#9ca3af]`" :style="{width:`${cy}px`}"><span>{{ i(`todo.calendar.multiDay`) }}</span><button type="button" :class="`rounded px-1 font-medium text-[#6b7280] transition-colors hover:bg-[#f3f4f6] hover:text-[#111827]`" @click="withDirectives(e=>l=!l,[`stop`])"><span v-text="l?i(`todo.calendar.collapse`):`+${y?.value}`" /></button></div><div :class="`relative min-w-0 flex-1`" :style="{height:`${_?.value*ly+8}px`}" @contextmenu="me"></div></div><div ref="o" :class="`week-scroll relative min-h-0 flex-1 overflow-y-auto`"><div :class="`relative flex`" :style="{height:`1056px`}"><div :class="`relative shrink-0`" :style="{width:`${cy}px`}" aria-hidden="true"></div><div ref="s" :class="`grid min-w-0 flex-1 grid-cols-7`"></div></div></div></div>
 </template>
 
 <script setup>

diff --git a/vue/components/MouseHeatmapCanvas.vue b/vue/components/MouseHeatmapCanvas.vue
@@ -1,5 +1,5 @@
 <template>
-<div ref="o" :class="`w-full min-w-0`"><div :class="`relative overflow-hidden rounded-lg outline-none transition-[height] duration-[380ms] ease-[cubic-bezier(0.22,0.8,0.24,1)] focus-visible:ring-2 focus-visible:ring-ring/30 motion-reduce:transition-none`" :style="at(j?.value)" :tabindex="S?.value?0:undefined" @keydown="ge"></div><div><div><button type="button" :class="`flex size-6 shrink-0 items-center justify-center rounded-full text-muted-foreground transition-colors hover:bg-muted hover:text-foreground`" :aria-label="a(`mouseHeatmap.prevDisplay`)" data-share-exclude="" @click="e=>he(-1)"><component :is="Qt" :size="14" /></button><span :class="`min-w-0 truncate px-1.5 text-muted-foreground`" :title="T?.value">{{ T?.value }}</span><span></span><button type="button" :class="`flex size-6 shrink-0 items-center justify-center rounded-full text-muted-foreground transition-colors hover:bg-muted hover:text-foreground`" :aria-label="a(`mouseHeatmap.nextDisplay`)" data-share-exclude="" @click="e=>he(1)"><component :is="dn" :size="14" /></button></div><p :class="`mt-0.5 max-w-full truncate px-2 text-center text-xs text-muted-foreground/70`" :title="E?.value">{{ E?.value }}</p></div></div>
+<div ref="o" :class="`w-full min-w-0`"><div :class="`relative overflow-hidden rounded-lg outline-none transition-[height] duration-[380ms] ease-[cubic-bezier(0.22,0.8,0.24,1)] focus-visible:ring-2 focus-visible:ring-ring/30 motion-reduce:transition-none`" :style="j?.value" :tabindex="S?.value?0:undefined" @keydown="ge"></div><div><div><button type="button" :class="`flex size-6 shrink-0 items-center justify-center rounded-full text-muted-foreground transition-colors hover:bg-muted hover:text-foreground`" :aria-label="a(`mouseHeatmap.prevDisplay`)" data-share-exclude="" @click="e=>he(-1)"><component :is="Qt" :size="14" /></button><span :class="`min-w-0 truncate px-1.5 text-muted-foreground`" :title="T?.value">{{ T?.value }}</span><span></span><button type="button" :class="`flex size-6 shrink-0 items-center justify-center rounded-full text-muted-foreground transition-colors hover:bg-muted hover:text-foreground`" :aria-label="a(`mouseHeatmap.nextDisplay`)" data-share-exclude="" @click="e=>he(1)"><component :is="dn" :size="14" /></button></div><p :class="`mt-0.5 max-w-full truncate px-2 text-center text-xs text-muted-foreground/70`" :title="E?.value">{{ E?.value }}</p></div></div>
 </template>
 
 <script setup>

diff --git a/vue/components/XiaoheiBotShareCard.vue b/vue/components/XiaoheiBotShareCard.vue
@@ -1,5 +1,5 @@
 <template>
-<p data-v-9f1395fd>{{ i(`roleShare.preparing`) }}</p><component :is="P" :class="`mt-2`" variant="outline" size="sm" :disabled="e.retryDisabled" @click="e=>r(`retry`)" /><section><div><strong><span v-text="i(`roleShare.templateTitle`,{name:a.value.template.name})" /></strong><span>{{ `● `+toDisplayString(i(`roleShare.shareable`)) }}</span></div><div :class="`share-cover mb-3 flex items-center justify-center rounded-lg border`" :style="at({'--cover':a.value.template.avatarColor})"><span><img :src="a.value.template.avatar||e.avatar" :alt="a.value.template.name" :class="`size-full object-cover`" referrerpolicy="no-referrer" /></span></div><p>{{ a.value.template.description }}</p><div><component :is="P" size="sm" @click="d" /><component :is="P" size="sm" variant="outline" @click="e=>o=true" /></div><a :href="a.value.url" target="_blank" rel="noopener noreferrer" :class="`mt-3 block break-all text-xs text-emerald-600`">{{ toDisplayString(a.value.url)+` ↗` }}</a><p>{{ u }}</p><component :is="Pzt" :open="o" @update:open="e=>o=e" :card="a?.value" :avatar="e.avatar" :copied="l" :error="u" @copy="d" /></section><slot name="after" />
+<p data-v-9f1395fd>{{ i(`roleShare.preparing`) }}</p><component :is="P" :class="`mt-2`" variant="outline" size="sm" :disabled="e.retryDisabled" @click="e=>r(`retry`)" /><section><div><strong><span v-text="i(`roleShare.templateTitle`,{name:a.value.template.name})" /></strong><span>{{ `● `+toDisplayString(i(`roleShare.shareable`)) }}</span></div><div :class="`share-cover mb-3 flex items-center justify-center rounded-lg border`" :style="{'--cover':a.value.template.avatarColor}"><span><img :src="a.value.template.avatar||e.avatar" :alt="a.value.template.name" :class="`size-full object-cover`" referrerpolicy="no-referrer" /></span></div><p>{{ a.value.template.description }}</p><div><component :is="P" size="sm" @click="d" /><component :is="P" size="sm" variant="outline" @click="e=>o=true" /></div><a :href="a.value.url" target="_blank" rel="noopener noreferrer" :class="`mt-3 block break-all text-xs text-emerald-600`">{{ toDisplayString(a.value.url)+` ↗` }}</a><p>{{ u }}</p><component :is="Pzt" :open="o" @update:open="e=>o=e" :card="a?.value" :avatar="e.avatar" :copied="l" :error="u" @copy="d" /></section><slot name="after" />
 </template>
 
 <script setup>

diff --git a/vue/components/MarkdownCodeBlockNode.vue b/vue/components/MarkdownCodeBlockNode.vue
@@ -1,5 +1,5 @@
 <template>
-<div data-v-4d9ce96f ref="l" :style="at(D?.value)" :class="[`code-block-container rounded-lg border overflow-hidden`,{dark:n.isDark}]"><component :is="i$" :show-header="n.showHeader" :show-collapse-button="n.showCollapseButton" :show-font-size-buttons="n.showFontSizeButtons" :enable-font-size-control="n.enableFontSizeControl" :show-copy-button="n.showCopyButton" :show-expand-button="n.showExpandButton" :show-preview-button="n.showPreviewButton" :show-tooltips="n.showTooltips" :is-dark="n.isDark" :loading="n.loading" :stream="n.stream" :is-collapsed="c?.value" :is-expanded="s?.value" :copy-text="o?.value" :is-previewable="E?.value" :code-font-size="S?.value" :code-font-min="10" :code-font-max="36" :default-code-font-size="x?.value" :font-baseline-ready="C?.value" @togglecollapse="he" @decreasefont="_e" @resetfont="ve" @increasefont="ge" @copy="pe" @toggleexpand="me" @preview="ye" /></div>
+<div data-v-4d9ce96f ref="l" :style="D?.value" :class="[`code-block-container rounded-lg border overflow-hidden`,{dark:n.isDark}]"><component :is="i$" :show-header="n.showHeader" :show-collapse-button="n.showCollapseButton" :show-font-size-buttons="n.showFontSizeButtons" :enable-font-size-control="n.enableFontSizeControl" :show-copy-button="n.showCopyButton" :show-expand-button="n.showExpandButton" :show-preview-button="n.showPreviewButton" :show-tooltips="n.showTooltips" :is-dark="n.isDark" :loading="n.loading" :stream="n.stream" :is-collapsed="c?.value" :is-expanded="s?.value" :copy-text="o?.value" :is-previewable="E?.value" :code-font-size="S?.value" :code-font-min="10" :code-font-max="36" :default-code-font-size="x?.value" :font-baseline-ready="C?.value" @togglecollapse="he" @decreasefont="_e" @resetfont="ve" @increasefont="ge" @copy="pe" @toggleexpand="me" @preview="ye" /></div>
 </template>
 
 <script setup>

diff --git a/vue/components/AdmonitionNode.vue b/vue/components/AdmonitionNode.vue
@@ -1,5 +1,5 @@
 <template>
-<div data-v-a3a8afce :class="[`admonition`,[`admonition-${r.node.kind}`]]"><div :id="c" :class="`admonition-legend`"><svg></svg><span>{{ a?.value }}</span><button :class="`admonition-toggle`" :aria-expanded="!o?.value" :aria-controls="`${c}-content`" @click="s"><svg :style="at({rotate:o?.value?`0deg`:`90deg`})" xmlns="http://www.w3.org/2000/svg" width="12" height="12" viewBox="0 0 24 24" fill="none" stroke="currentColor" stroke-width="2" stroke-linecap="round" stroke-linejoin="round"></svg></button></div><span v-text="Xe(createElementVNode(`div`,{id:`${c}-content`,class:`admonition-content`,'aria-labelledby':c},[resolveComponent(s$,{'index-key':`admonition-${items.indexKey}`,nodes:r.node.children,'custom-id':r.customId,typewriter:r.typewriter,onCopy:n[0]||=e=>i(`copy`,e)},null,8,[`index-key`,`nodes`,`custom-id`,`typewriter`])],8,h3e),[[Tt,!o?.value]])" /></div>
+<div data-v-a3a8afce :class="[`admonition`,[`admonition-${r.node.kind}`]]"><div :id="c" :class="`admonition-legend`"><svg></svg><span>{{ a?.value }}</span><button :class="`admonition-toggle`" :aria-expanded="!o?.value" :aria-controls="`${c}-content`" @click="s"><svg :style="{rotate:o?.value?`0deg`:`90deg`}" xmlns="http://www.w3.org/2000/svg" width="12" height="12" viewBox="0 0 24 24" fill="none" stroke="currentColor" stroke-width="2" stroke-linecap="round" stroke-linejoin="round"></svg></button></div><span v-text="Xe(createElementVNode(`div`,{id:`${c}-content`,class:`admonition-content`,'aria-labelledby':c},[resolveComponent(s$,{'index-key':`admonition-${items.indexKey}`,nodes:r.node.children,'custom-id':r.customId,typewriter:r.typewriter,onCopy:n[0]||=e=>i(`copy`,e)},null,8,[`index-key`,`nodes`,`custom-id`,`typewriter`])],8,h3e),[[Tt,!o?.value]])" /></div>
 </template>
 
 <script setup>
